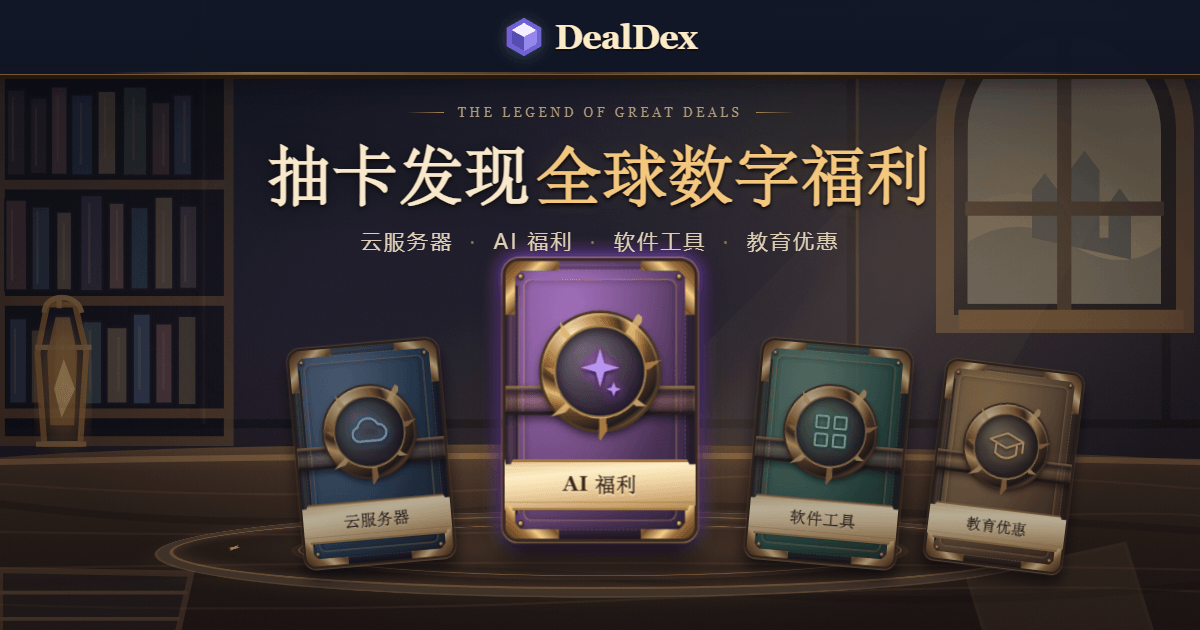
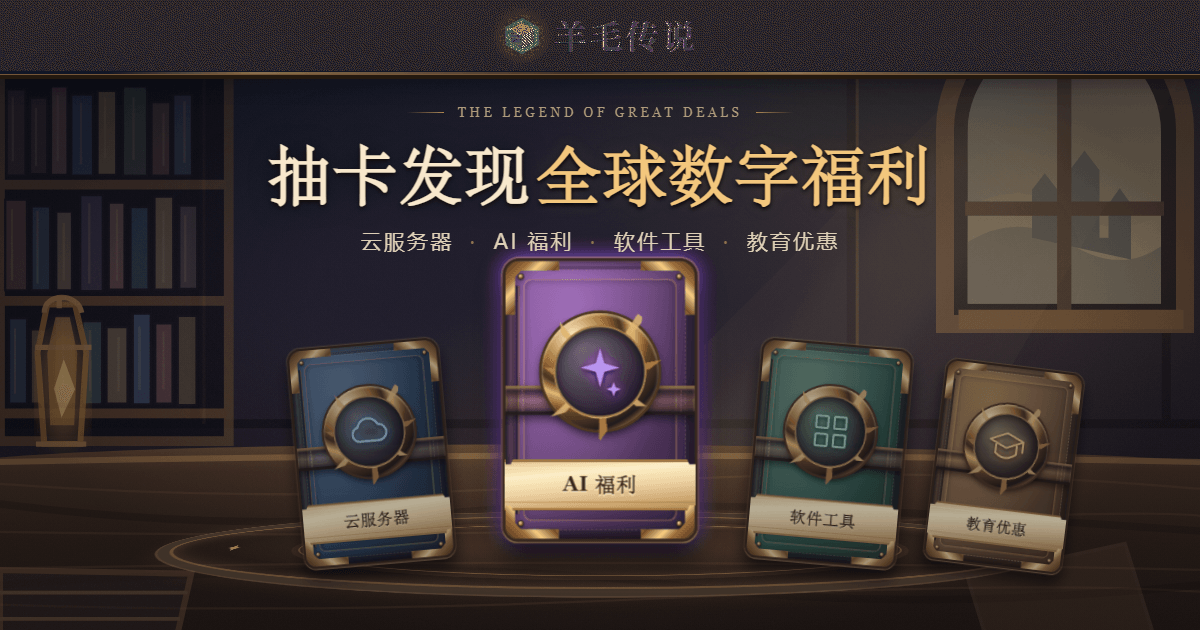
feat: rename brand to 羊毛传说
Update page titles, meta/OG tags, catalog SEO copy, the header wordmark
and the share image's title bar.

Changed region(s): [[0.0, 0.0, 1.0, 0.1206]]

diff --git a/offers.html b/offers.html
@@ -8,20 +8,20 @@
          catalog regions with server-rendered content; without it (Vite dev,
          or a render failure) the browser script renders from /api/offers. -->
     <!--catalog-head-->
-    <title>发现优惠 · 数字福利目录 | DealDex</title>
+    <title>发现优惠 · 数字福利目录 | 羊毛传说</title>
     <meta
       name="description"
-      content="DealDex 数字福利目录：AI、云服务器、软件工具与教育优惠，每张注明官方来源与最后核验日期，过期自动下架。"
+      content="羊毛传说 数字福利目录：AI、云服务器、软件工具与教育优惠，每张注明官方来源与最后核验日期，过期自动下架。"
     />
     <meta name="robots" content="index, follow" />
     <!-- Fallback share tags; the Worker replaces this region with the full
          set, including absolute og:url and og:image. -->
     <meta property="og:type" content="website" />
-    <meta property="og:site_name" content="DealDex" />
-    <meta property="og:title" content="发现优惠 · 数字福利目录 | DealDex" />
+    <meta property="og:site_name" content="羊毛传说" />
+    <meta property="og:title" content="发现优惠 · 数字福利目录 | 羊毛传说" />
     <meta
       property="og:description"
-      content="DealDex 数字福利目录：AI、云服务器、软件工具与教育优惠，每张注明官方来源与最后核验日期，过期自动下架。"
+      content="羊毛传说 数字福利目录：AI、云服务器、软件工具与教育优惠，每张注明官方来源与最后核验日期，过期自动下架。"
     />
     <meta name="twitter:card" content="summary_large_image" />
     <!--/catalog-head-->
@@ -37,7 +37,7 @@
     <div class="screen-grain" aria-hidden="true"></div>
     <div class="app catalog-app">
       <header class="site-header">
-        <a class="brand" href="/" aria-label="DealDex 首页">
+        <a class="brand" href="/" aria-label="羊毛传说 首页">
           <span class="brand-mark" aria-hidden="true"
             ><svg viewBox="0 0 48 48">
               <path d="M24 2 44 13.4v21.2L24 46 4 34.6V13.4L24 2Z" fill="#6f63d3" />
@@ -46,8 +46,8 @@
               <path d="M24 24.1 38 16.2v15.6L24 40V24.1Z" fill="#9589ee" />
               <path d="M10 16.2 24 24.1V40l-14-8.2V16.2Z" fill="#564bb2" /></svg
           ></span>
-          <span class="brand-word">DealDex</span>
-          <span class="brand-sub">福利传说</span>
+          <span class="brand-word">羊毛传说</span>
+          <span class="brand-sub">数字福利</span>
         </a>
         <nav class="main-nav" aria-label="主导航">
           <a class="nav-link" href="/">

diff --git a/tests/ui/catalog-views.test.js b/tests/ui/catalog-views.test.js
@@ -222,7 +222,7 @@ describe('catalogResults / catalogList', () => {
 describe('catalogMeta', () => {
   it('describes the full catalog as indexable', () => {
     const meta = catalogMeta({ kind: 'list', filters: { page: 1 }, total: 12 });
-    expect(meta.title).toBe('发现优惠 · 数字福利目录 | DealDex');
+    expect(meta.title).toBe('发现优惠 · 数字福利目录 | 羊毛传说');
     expect(meta.description).toContain('12');
     expect(meta.path).toBe('/offers');
     expect(meta.robots).toBe('index, follow');
@@ -249,7 +249,7 @@ describe('catalogMeta', () => {
 
   it('names pool pages and later pages, and keeps them indexable', () => {
     const meta = catalogMeta({ kind: 'list', filters: { pool: 'ai', page: 2 }, total: 30 });
-    expect(meta.title).toBe('AI 福利目录 · 第 2 页 | DealDex');
+    expect(meta.title).toBe('AI 福利目录 · 第 2 页 | 羊毛传说');
     expect(meta.path).toBe('/offers?pool=ai&page=2');
     expect(meta.robots).toBe('index, follow');
   });
@@ -271,7 +271,7 @@ describe('catalogMeta', () => {
 
   it('describes one offer from its own fields', () => {
     const meta = catalogMeta({ kind: 'detail', offer: offer({ title: 'GPU', summary: 's' }) });
-    expect(meta.title).toBe('GPU · 示例提供方 | DealDex');
+    expect(meta.title).toBe('GPU · 示例提供方 | 羊毛传说');
     expect(meta.description).toContain('benefit');
     expect(meta.path).toBe('/offers/deal-1');
     expect(meta.robots).toBe('index, follow');
@@ -293,7 +293,7 @@ describe('headTags', () => {
   it('emits title, description, canonical, robots and Open Graph tags', () => {
     const meta = catalogMeta({ kind: 'list', filters: { pool: 'ai', page: 2 }, total: 30 });
     const html = headTags(meta, 'https://dealdex.test');
-    expect(html).toContain('<title>AI 福利目录 · 第 2 页 | DealDex</title>');
+    expect(html).toContain('<title>AI 福利目录 · 第 2 页 | 羊毛传说</title>');
     expect(html).toContain(
       '<link rel="canonical" href="https://dealdex.test/offers?pool=ai&amp;page=2">',
     );
@@ -309,7 +309,7 @@ describe('headTags', () => {
     const html = headTags(meta, 'https://dealdex.test');
     expect(html).toContain(`<meta property="og:url" content="https://dealdex.test${path}">`);
     expect(html).toContain('<meta property="og:type" content="website">');
-    expect(html).toContain('<meta property="og:site_name" content="DealDex">');
+    expect(html).toContain('<meta property="og:site_name" content="羊毛传说">');
     expect(html).toContain(`<meta property="og:title" content="${meta.title}">`);
     expect(html).toContain('<meta property="og:description"');
     expect(html).toContain(

diff --git a/index.html b/index.html
@@ -6,12 +6,12 @@
     <meta name="theme-color" content="#161b2b" />
     <meta
       name="description"
-      content="DealDex 福利抽卡：在云服务器、AI 福利、软件工具和教育优惠中发现值得关注的数字福利。"
+      content="羊毛传说 福利抽卡：在云服务器、AI 福利、软件工具和教育优惠中发现值得关注的数字福利。"
     />
-    <title>DealDex · 数字福利抽卡</title>
+    <title>羊毛传说 · 数字福利抽卡</title>
     <meta property="og:type" content="website" />
-    <meta property="og:site_name" content="DealDex" />
-    <meta property="og:title" content="DealDex · 抽卡发现全球数字福利" />
+    <meta property="og:site_name" content="羊毛传说" />
+    <meta property="og:title" content="羊毛传说 · 抽卡发现全球数字福利" />
     <meta
       property="og:description"
       content="在云服务器、AI 福利、软件工具和教育优惠中抽卡，发现值得关注的数字福利。"
@@ -20,7 +20,7 @@
     <meta property="og:image" content="https://free.vibe-show.com/og-image.png" />
     <meta property="og:image:width" content="1200" />
     <meta property="og:image:height" content="630" />
-    <meta property="og:image:alt" content="DealDex · 抽卡发现全球数字福利" />
+    <meta property="og:image:alt" content="羊毛传说 · 抽卡发现全球数字福利" />
     <meta property="og:locale" content="zh_CN" />
     <meta name="twitter:card" content="summary_large_image" />
     <link rel="icon" href="/favicon.ico" sizes="32x32" />
@@ -34,7 +34,7 @@
     <div class="screen-grain" aria-hidden="true"></div>
     <div class="app">
       <header class="site-header">
-        <a class="brand" href="#home" aria-label="DealDex 首页">
+        <a class="brand" href="#home" aria-label="羊毛传说 首页">
           <span class="brand-mark" aria-hidden="true"
             ><svg viewBox="0 0 48 48">
               <path d="M24 2 44 13.4v21.2L24 46 4 34.6V13.4L24 2Z" fill="#6f63d3" />
@@ -43,8 +43,8 @@
               <path d="M24 24.1 38 16.2v15.6L24 40V24.1Z" fill="#9589ee" />
               <path d="M10 16.2 24 24.1V40l-14-8.2V16.2Z" fill="#564bb2" /></svg
           ></span>
-          <span class="brand-word">DealDex</span>
-          <span class="brand-sub">福利传说</span>
+          <span class="brand-word">羊毛传说</span>
+          <span class="brand-sub">数字福利</span>
         </a>
         <nav class="main-nav" aria-label="主导航">
           <button type="button" class="nav-link is-active" data-nav="home">

diff --git a/tests/worker/catalog-pages.test.ts b/tests/worker/catalog-pages.test.ts
@@ -73,7 +73,7 @@ describe('GET /offers (server-rendered catalog)', () => {
     expect(res.status).toBe(200);
     expect(res.headers.get('content-type')).toBe('text/html; charset=utf-8');
     expect(res.headers.get('cache-control')).toContain('max-age=');
-    expect(html).toContain('<title>发现优惠 · 数字福利目录 | DealDex</title>');
+    expect(html).toContain('<title>发现优惠 · 数字福利目录 | 羊毛传说</title>');
     expect(html).toContain(`<link rel="canonical" href="${ORIGIN}/offers">`);
     expect(html).toContain('<meta name="robots" content="index, follow">');
     expect(html).toContain('data-view="list"');
@@ -107,7 +107,7 @@ describe('GET /offers (server-rendered catalog)', () => {
     expect(res.status).toBe(200);
     expect(html).toContain('Student plan');
     expect(html).not.toContain('GPU 赠金');
-    expect(html).toContain('<title>AI 福利目录 | DealDex</title>');
+    expect(html).toContain('<title>AI 福利目录 | 羊毛传说</title>');
     expect(html).toMatch(/name="pool" value="ai" checked/);
     expect(html).toContain('<option value="true" selected>需学生身份</option>');
     expect(html).toContain('<meta name="robots" content="noindex, follow">');
@@ -125,7 +125,7 @@ describe('GET /offers (server-rendered catalog)', () => {
     expect(first.html).toContain('href="/offers?pool=education&amp;page=2" data-route rel="next"');
     const second = await page('/offers?pool=education&page=2');
     expect(second.html).toContain('第 2 / 2 页');
-    expect(second.html).toContain('<title>教育优惠目录 · 第 2 页 | DealDex</title>');
+    expect(second.html).toContain('<title>教育优惠目录 · 第 2 页 | 羊毛传说</title>');
     expect(second.html).toContain('rel="prev"');
   });
 
@@ -157,7 +157,7 @@ describe('GET /offers/:id', () => {
   it('renders one offer with its own title, description and canonical URL', async () => {
     const { res, html } = await page('/offers/ai-ssr');
     expect(res.status).toBe(200);
-    expect(html).toContain('<title>GPU 赠金 · Example | DealDex</title>');
+    expect(html).toContain('<title>GPU 赠金 · Example | 羊毛传说</title>');
     expect(html).toContain(`<link rel="canonical" href="${ORIGIN}/offers/ai-ssr">`);
     expect(html).toContain('data-view="detail"');
     expect(html).toContain('最后核验');

diff --git a/src/ui/catalog-meta.js b/src/ui/catalog-meta.js
@@ -15,12 +15,12 @@ import { CATALOG_PAGE_SIZE, catalogHref, isIndexable, offerHref } from '../domai
  *   status: number }} PageMeta
  */
 
-const SITE = 'DealDex';
+const SITE = '羊毛传说';
 /** Share image served from `public/og-image.png`; made absolute with the request origin. */
 export const OG_IMAGE_PATH = '/og-image.png';
 const TWITTER_CARD = 'summary_large_image';
 const GENERIC_DESCRIPTION =
-  'DealDex 数字福利目录：AI、云服务器、软件工具与教育优惠，每张注明官方来源与最后核验日期，过期自动下架。';
+  '羊毛传说 数字福利目录：AI、云服务器、软件工具与教育优惠，每张注明官方来源与最后核验日期，过期自动下架。';
 const MAX_DESCRIPTION = 150;
 const INDEX = 'index, follow';
 const NOINDEX = 'noindex, follow';
@@ -40,11 +40,11 @@ function listDescription(label, total) {
   const tail = '每张注明官方来源与最后核验日期，过期自动下架。';
   if (label) {
     return total > 0
-      ? `DealDex ${label}目录：收录 ${total} 张福利，${tail}`
-      : `DealDex ${label}目录：${tail}`;
+      ? `羊毛传说 ${label}目录：收录 ${total} 张福利，${tail}`
+      : `羊毛传说 ${label}目录：${tail}`;
   }
   return total > 0
-    ? `DealDex 收录 ${total} 张数字福利，涵盖 AI、云服务器、软件工具与教育优惠，${tail}`
+    ? `羊毛传说 收录 ${total} 张数字福利，涵盖 AI、云服务器、软件工具与教育优惠，${tail}`
     : GENERIC_DESCRIPTION;
 }
 
@@ -86,7 +86,7 @@ export function catalogMeta(view) {
   }
   return {
     title: `福利已下架 | ${SITE}`,
-    description: '这张福利已过期、失效或不存在。DealDex 只展示仍在有效期内的福利。',
+    description: '这张福利已过期、失效或不存在。羊毛传说 只展示仍在有效期内的福利。',
     path: null,
     robots: NOINDEX,
     status: 404,

diff --git a/tests/app/catalog-page.integration.test.js b/tests/app/catalog-page.integration.test.js
@@ -55,7 +55,7 @@ describe('client rendering without server content', () => {
     expect(rows()).toEqual(['对话额度', 'API 试用金', '编程助手']);
     expect($('#catalogTitle').textContent).toBe('AI 福利目录');
     expect($('input[name="pool"][value="ai"]').checked).toBe(true);
-    expect(document.title).toBe('AI 福利目录 | DealDex');
+    expect(document.title).toBe('AI 福利目录 | 羊毛传说');
     expect($('link[rel="canonical"]').getAttribute('href')).toBe(
       `${window.location.origin}/offers?pool=ai`,
     );
@@ -74,7 +74,7 @@ describe('client rendering without server content', () => {
     await settle();
     expect(fake.calls[0]).toBe('/api/offers/ai-pro');
     expect($('[data-view="detail"] h1').textContent).toBe('编程助手');
-    expect(document.title).toBe('编程助手 · 示例提供方 | DealDex');
+    expect(document.title).toBe('编程助手 · 示例提供方 | 羊毛传说');
   });
 
   it('shows the withdrawn page for an unknown or malformed id', async () => {

diff --git a/tests/lobby-page.test.js b/tests/lobby-page.test.js
@@ -71,7 +71,7 @@ describe('social and icon metadata', () => {
       'og:title': /property="og:title"\s+content="[^"]+"/,
       'og:description': /property="og:description"\s+content="[^"]+"/,
       'og:type': /property="og:type"\s+content="website"/,
-      'og:site_name': /property="og:site_name"\s+content="DealDex"/,
+      'og:site_name': /property="og:site_name"\s+content="羊毛传说"/,
       'og:url': /property="og:url"\s+content="https:\/\/free\.vibe-show\.com\/"/,
       'og:image': /property="og:image"\s+content="https:\/\/free\.vibe-show\.com\/og-image\.png"/,
       'twitter:card': /name="twitter:card"\s+content="summary_large_image"/,

diff --git a/tests/ui/catalog-meta.dom.test.js b/tests/ui/catalog-meta.dom.test.js
@@ -17,7 +17,7 @@ describe('applyMeta', () => {
     expect(prop('og:url')).toBe(`${ORIGIN}/offers/deal-1`);
     expect(prop('og:image')).toBe(`${ORIGIN}/og-image.png`);
     expect(prop('og:type')).toBe('website');
-    expect(prop('og:site_name')).toBe('DealDex');
+    expect(prop('og:site_name')).toBe('羊毛传说');
     expect(doc.head.querySelector('meta[name="twitter:card"]')?.getAttribute('content')).toBe(
       'summary_large_image',
     );

diff --git a/styles.css b/styles.css
@@ -145,7 +145,7 @@ svg {
   font-family: var(--serif);
   font-size: 27px;
   font-weight: 700;
-  letter-spacing: -0.7px;
+  letter-spacing: 1px;
   color: #f9eac8;
   text-shadow: 0 2px 0 #0007;
 }

diff --git a/README.md b/README.md
@@ -1,4 +1,4 @@
-# DealDex · 福利传说
+# 羊毛传说
 
 一个以「开卡包」为主角的数字福利发现网站。第一阶段实现了四大卡池的可交互首页，采用手绘质感的木质场景、皮革卡包、旧金属装饰与克制的光效。
 
